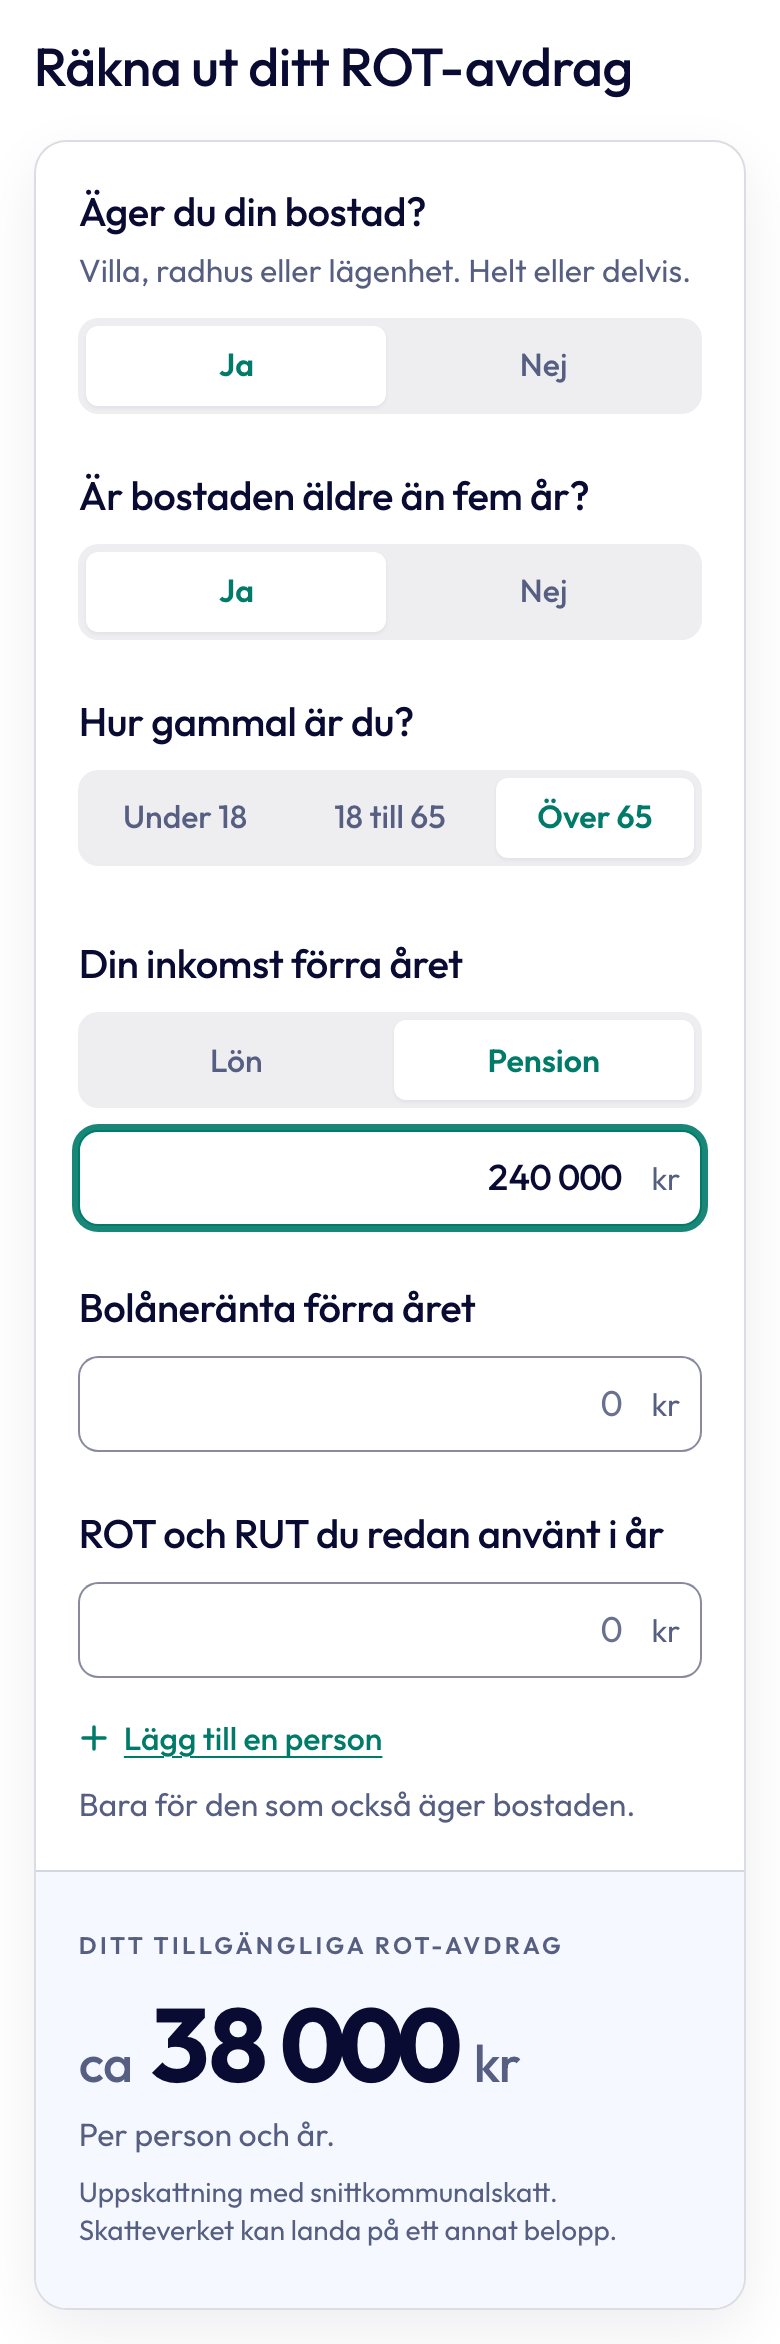
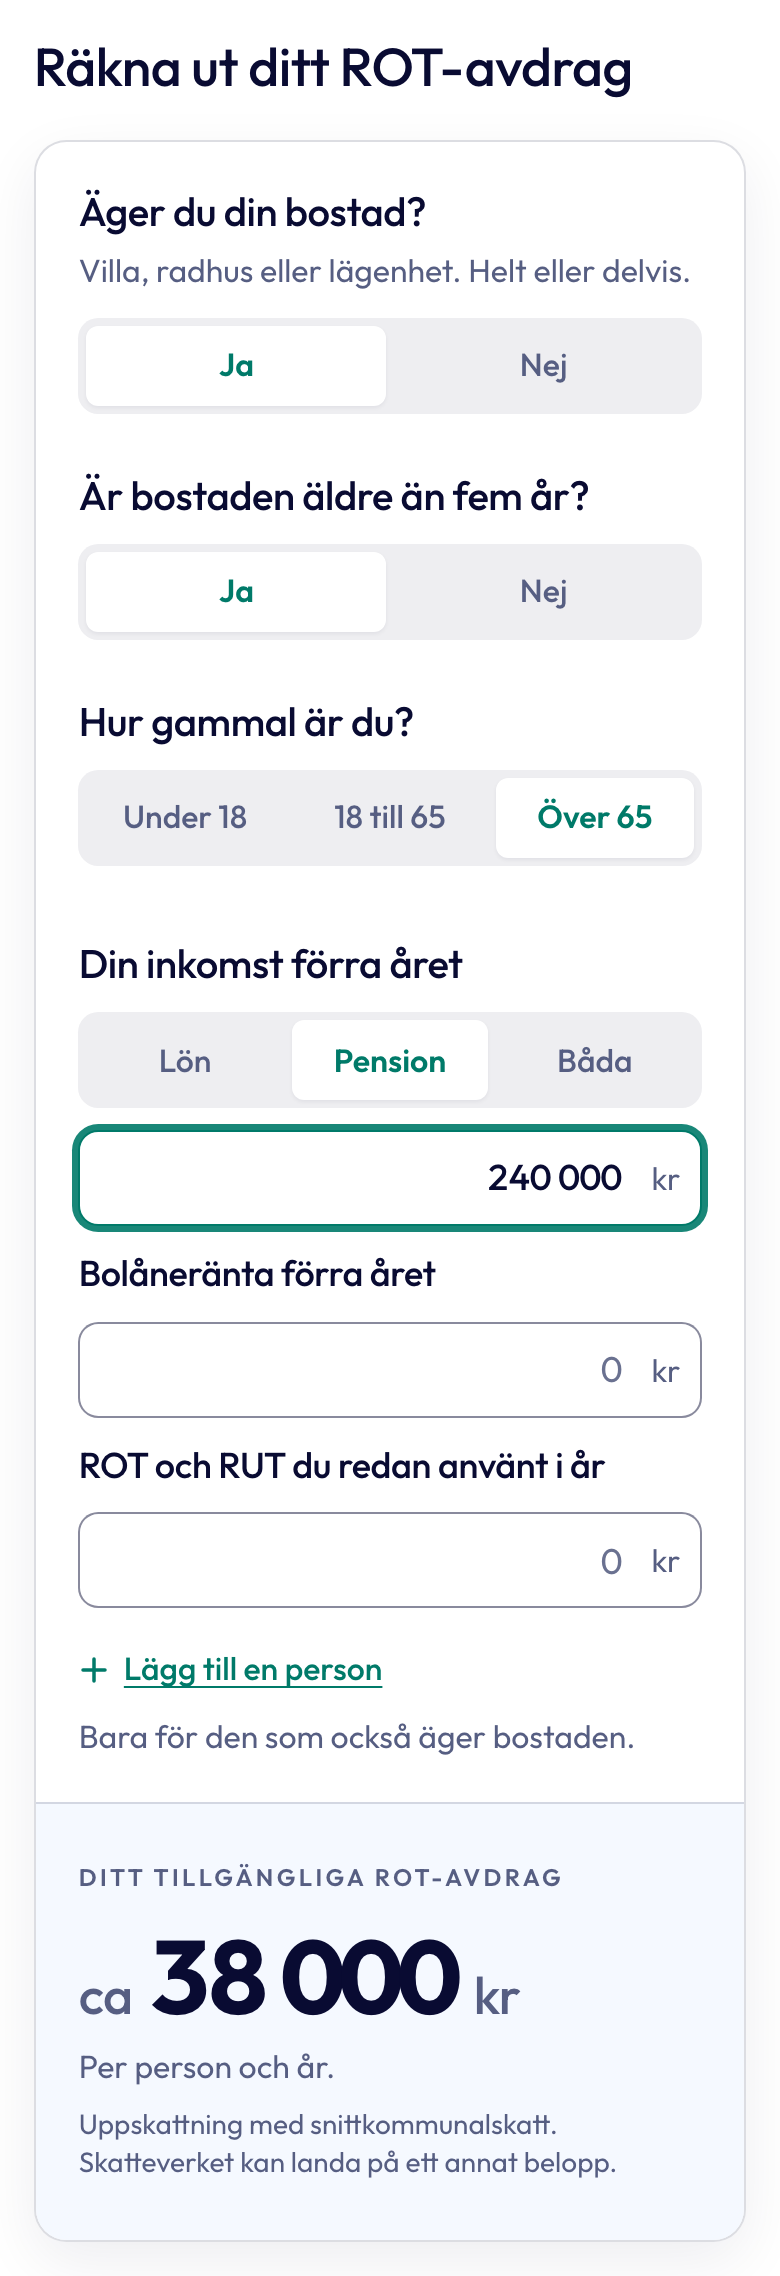
Posterna isär (ett använt-fält per läge), Lön/Pension/Båda med 'Varav pension', 66+-not, tätare detaljrader 18 px

diff --git a/kalkylator/rakna.js b/kalkylator/rakna.js
@@ -55,8 +55,8 @@ export const MAX_PERSONER = 4;
 /** Utrymmet för en person vid en given kommunalskatt (delad med ålder från frågan, inte från inkomsttypen: research/10 F1) */
 function utrymmeFor(p, ks) {
   const r = skatteutrymme({
-    lon_ar: p.typ === 'pension' ? 0 : p.inkomst,
-    pension_ar: p.typ === 'pension' ? p.inkomst : 0,
+    lon_ar: p.typ === 'pension' ? 0 : p.inkomst,                  /* 'lon' och 'bada': fältet är lön */
+    pension_ar: p.typ === 'pension' ? p.inkomst : (p.typ === 'bada' ? Math.max(0, p.pension || 0) : 0),
     ar_66_plus: p.alder === '66+',
     ks, taxeringsvarde: 0,
     ranteutgifter: Math.max(0, p.ranta || 0),        /* underskott av kapital ligger före ROT i 67 kap. 2 § (research/10 F2) */
@@ -68,9 +68,10 @@ function utrymmeFor(p, ks) {
  * beraknaHushall({ mode, ager, aldre, personer: [{ typ, inkomst, alder: 'u18'|'18-65'|'66+', ranta, anvant, gtAnvant }] })
  * -> { status: 'stopp'|'tak'|'belopp', belopp, prefix, text, not, per, antal }
  *   ager/aldre som i berakna(); person 1:s ålder 'u18' = fyller 18 först nästa år -> stopp (67 kap. 11 §).
- *   Per person (67 kap. 19 § tak + 67 kap. 2 § pott):
- *     ROT-läget:  rest = min(50 000, utrymme) − (ROT och RUT redan använt)      [RUT tar av samma pott; ett fält, konservativt när taket binder]
- *     GT-läget:   rest = min(50 000 − GT använt, utrymme − ROT/RUT använt − GT använt)   [ROT/RUT ligger före grön teknik i 67 kap. 2 §]
+ *   Per person (67 kap. 19 § tak + 67 kap. 2 § pott): rest = min(50 000, utrymme) − det som redan använts i år av
+ *   SAMMA post (ROT och RUT i ROT-läget, grön teknik i grön teknik-läget). Ägarbeslut 2026-09-16: posterna hålls isär
+ *   och syns inte i varandra; att ROT/RUT ligger före grön teknik i 67 kap. 2 § är därför en känd förenkling
+ *   (uppskattning, research/10 F3).
  *   Summan är hushållets. "upp till" så snart någon inkomst saknas, "ca" så snart någon är räknad under taket eller när
  *   "50 000" inte håller vid landets lägsta kommunalskatt (research/10 F6), annars exakt.
  */
@@ -86,15 +87,15 @@ export function beraknaHushall({ mode = 'rot', ager = true, aldre = true, myndig
   const noter = [];
   if (mode === 'rot' && !aldre) noter.push('Yngre än fem år: ROT gäller bara reparationer.');
 
-  let summa = 0, nagonTak = false, nagonCa = false, anvantTot = 0, forMycket = 0, nagonInkomst = false;
+  let summa = 0, nagonTak = false, nagonCa = false, anvantTot = 0, forMycket = 0, nagonInkomst = false, lon66 = false;
   for (const p of personer) {
-    const rotRut = Math.max(0, p.anvant || 0);
-    const gt = mode === 'gt' ? Math.max(0, p.gtAnvant || 0) : 0;
-    anvantTot += rotRut + gt;
-    const restVid = (u) => mode === 'gt' ? Math.min(TAK - gt, u - rotRut - gt) : Math.min(TAK, u) - rotRut;
+    const anvant = Math.max(0, (mode === 'gt' ? p.gtAnvant : p.anvant) || 0);
+    anvantTot += anvant;
+    const restVid = (u) => Math.min(TAK, u) - anvant;
     if (!p.inkomst) { summa += Math.max(0, restVid(Infinity)); nagonTak = true; continue; }
     nagonInkomst = true;
     const u = utrymmeFor(p, P.KS_SNITT);
+    if (u === 0 && p.alder === '66+' && p.typ === 'lon') lon66 = true;   /* 66+ med bara lön: förhöjt grundavdrag + jobbskatteavdrag 66+ äter hela kommunalskatten (verifierat: SKV-72) */
     let rest = restVid(u);
     if (rest < 0) forMycket += -rest;                 /* använt mer än skatten räcker till: kvarskatt */
     rest = Math.max(0, rest);
@@ -105,7 +106,9 @@ export function beraknaHushall({ mode = 'rot', ager = true, aldre = true, myndig
 
   const ni = antal > 1;
   if (summa === 0 && anvantTot > 0) noter.push(`${ni ? 'Ni' : 'Du'} har redan använt hela årets ${namn}.`);
-  else if (summa === 0 && nagonInkomst) noter.push(`${ni ? 'Er' : 'Din'} skatt räcker inte till något ${namn} i år.`);
+  else if (summa === 0 && nagonInkomst) noter.push(lon66
+    ? `Från 66 år är skatten på lön så låg att inget blir kvar att dra ${namn}et från. Har du också pension, välj Båda.`
+    : `${ni ? 'Er' : 'Din'} skatt räcker inte till något ${namn} i år.`);
   if (forMycket > 0) {
     const fm = Math.max(1000, Math.round(forMycket / 1000) * 1000);
     noter.push(`${ni ? 'Ni' : 'Du'} har ${summa === 0 && anvantTot > 0 ? 'dessutom ' : ''}använt ca ${kr(fm)} mer än skatten räcker till. Den delen kan Skatteverket kräva tillbaka i deklarationen.`);

diff --git a/kalkylator/artikel/index.html b/kalkylator/artikel/index.html
@@ -1681,6 +1681,7 @@ html.ampy-cc-locked,html.ampy-cc-locked body{overflow:hidden!important;}
               <div class="ampy-segment rk__segment" data-q="typ">
                 <label><input type="radio" name="typ-1" value="lon" checked><span>Lön</span></label>
                 <label><input type="radio" name="typ-1" value="pension"><span>Pension</span></label>
+                <label><input type="radio" name="typ-1" value="bada"><span>Båda</span></label>
               </div>
               <div class="rk__belopp">
                 <input class="ampy-input ampy-input--tabular rk__input" id="rk-inkomst-1" data-falt="inkomst" type="text" inputmode="numeric" autocomplete="off" enterkeyhint="done" placeholder="300 000" aria-labelledby="rk-inkomst-etikett-1" aria-describedby="rk-enhet-1">
@@ -1688,6 +1689,14 @@ html.ampy-cc-locked,html.ampy-cc-locked body{overflow:hidden!important;}
               </div>
             </div>
           </fieldset>
+          <!-- "Båda": lön i fältet ovanför, pensionen här (beskattas olika: pensionsavgift och jobbskatteavdrag bara på lön) -->
+          <div class="rk__fraga rk__rad rk__fraga--pension">
+            <label class="rk__etikett" for="rk-pension-1">Varav pension</label>
+            <div class="rk__belopp rk__belopp--kort">
+              <input class="ampy-input ampy-input--tabular rk__input" id="rk-pension-1" data-falt="pension" type="text" inputmode="numeric" autocomplete="off" enterkeyhint="done" placeholder="0" aria-describedby="rk-enhet-pension-1">
+              <span class="rk__enhet" id="rk-enhet-pension-1" aria-label="kronor">kr</span>
+            </div>
+          </div>
           <div class="rk__fraga rk__rad rk__fraga--ranta">
             <label class="rk__etikett" for="rk-ranta-1">Bolåneränta förra året</label>
             <div class="rk__belopp rk__belopp--kort">
@@ -1732,6 +1741,7 @@ html.ampy-cc-locked,html.ampy-cc-locked body{overflow:hidden!important;}
               <div class="ampy-segment rk__segment" data-q="typ">
                 <label><input type="radio" name="typ-N" value="lon" checked><span>Lön</span></label>
                 <label><input type="radio" name="typ-N" value="pension"><span>Pension</span></label>
+                <label><input type="radio" name="typ-N" value="bada"><span>Båda</span></label>
               </div>
               <div class="rk__belopp">
                 <input class="ampy-input ampy-input--tabular rk__input" id="rk-inkomst-N" data-falt="inkomst" type="text" inputmode="numeric" autocomplete="off" enterkeyhint="done" placeholder="300 000" aria-labelledby="rk-inkomst-etikett-N" aria-describedby="rk-enhet-N">
@@ -1739,6 +1749,14 @@ html.ampy-cc-locked,html.ampy-cc-locked body{overflow:hidden!important;}
               </div>
             </div>
           </fieldset>
+          <!-- "Båda": lön i fältet ovanför, pensionen här (beskattas olika: pensionsavgift och jobbskatteavdrag bara på lön) -->
+          <div class="rk__fraga rk__rad rk__fraga--pension">
+            <label class="rk__etikett" for="rk-pension-N">Varav pension</label>
+            <div class="rk__belopp rk__belopp--kort">
+              <input class="ampy-input ampy-input--tabular rk__input" id="rk-pension-N" data-falt="pension" type="text" inputmode="numeric" autocomplete="off" enterkeyhint="done" placeholder="0" aria-describedby="rk-enhet-pension-N">
+              <span class="rk__enhet" id="rk-enhet-pension-N" aria-label="kronor">kr</span>
+            </div>
+          </div>
           <!-- div + radiogroup i stället för fieldset: fieldset kan inte vara flex-rad i Chrome (legend hamnar utanför) -->
           <div class="rk__fraga rk__rad rk__fraga--alder" role="radiogroup" aria-labelledby="rk-alder-etikett-N">
             <span class="rk__etikett" id="rk-alder-etikett-N">Ålder</span>

diff --git a/kalkylator/v1/index.html b/kalkylator/v1/index.html
@@ -58,6 +58,7 @@
               <div class="ampy-segment rk__segment" data-q="typ">
                 <label><input type="radio" name="typ-1" value="lon" checked><span>Lön</span></label>
                 <label><input type="radio" name="typ-1" value="pension"><span>Pension</span></label>
+                <label><input type="radio" name="typ-1" value="bada"><span>Båda</span></label>
               </div>
               <div class="rk__belopp">
                 <input class="ampy-input ampy-input--tabular rk__input" id="rk-inkomst-1" data-falt="inkomst" type="text" inputmode="numeric" autocomplete="off" enterkeyhint="done" placeholder="300 000" aria-labelledby="rk-inkomst-etikett-1" aria-describedby="rk-enhet-1">
@@ -65,6 +66,14 @@
               </div>
             </div>
           </fieldset>
+          <!-- "Båda": lön i fältet ovanför, pensionen här (beskattas olika: pensionsavgift och jobbskatteavdrag bara på lön) -->
+          <div class="rk__fraga rk__rad rk__fraga--pension">
+            <label class="rk__etikett" for="rk-pension-1">Varav pension</label>
+            <div class="rk__belopp rk__belopp--kort">
+              <input class="ampy-input ampy-input--tabular rk__input" id="rk-pension-1" data-falt="pension" type="text" inputmode="numeric" autocomplete="off" enterkeyhint="done" placeholder="0" aria-describedby="rk-enhet-pension-1">
+              <span class="rk__enhet" id="rk-enhet-pension-1" aria-label="kronor">kr</span>
+            </div>
+          </div>
           <div class="rk__fraga rk__rad rk__fraga--ranta">
             <label class="rk__etikett" for="rk-ranta-1">Bolåneränta förra året</label>
             <div class="rk__belopp rk__belopp--kort">
@@ -109,6 +118,7 @@
               <div class="ampy-segment rk__segment" data-q="typ">
                 <label><input type="radio" name="typ-N" value="lon" checked><span>Lön</span></label>
                 <label><input type="radio" name="typ-N" value="pension"><span>Pension</span></label>
+                <label><input type="radio" name="typ-N" value="bada"><span>Båda</span></label>
               </div>
               <div class="rk__belopp">
                 <input class="ampy-input ampy-input--tabular rk__input" id="rk-inkomst-N" data-falt="inkomst" type="text" inputmode="numeric" autocomplete="off" enterkeyhint="done" placeholder="300 000" aria-labelledby="rk-inkomst-etikett-N" aria-describedby="rk-enhet-N">
@@ -116,6 +126,14 @@
               </div>
             </div>
           </fieldset>
+          <!-- "Båda": lön i fältet ovanför, pensionen här (beskattas olika: pensionsavgift och jobbskatteavdrag bara på lön) -->
+          <div class="rk__fraga rk__rad rk__fraga--pension">
+            <label class="rk__etikett" for="rk-pension-N">Varav pension</label>
+            <div class="rk__belopp rk__belopp--kort">
+              <input class="ampy-input ampy-input--tabular rk__input" id="rk-pension-N" data-falt="pension" type="text" inputmode="numeric" autocomplete="off" enterkeyhint="done" placeholder="0" aria-describedby="rk-enhet-pension-N">
+              <span class="rk__enhet" id="rk-enhet-pension-N" aria-label="kronor">kr</span>
+            </div>
+          </div>
           <!-- div + radiogroup i stället för fieldset: fieldset kan inte vara flex-rad i Chrome (legend hamnar utanför) -->
           <div class="rk__fraga rk__rad rk__fraga--alder" role="radiogroup" aria-labelledby="rk-alder-etikett-N">
             <span class="rk__etikett" id="rk-alder-etikett-N">Ålder</span>

diff --git a/kalkylator/v1/style.css b/kalkylator/v1/style.css
@@ -25,6 +25,7 @@
   --rk-text-stopp: 18px;                   /* stoppbeskedet 18/500 på båda skärmar (briefen) */
   --rk-text-siffror: 18px;                 /* siffrorna i beloppsfältet */
   --rk-text-fin: 14px;                     /* disclaimern under talet (research/10 §4.4): en rad, dämpad */
+  --rk-text-rad: 18px;                     /* etiketter på detaljraderna (ränta, använt, ålder, pension) */
   --rk-seg-min: 88px;                      /* minsta bredd per alternativ (briefen); "Pension" i 600 + padding är 84,3 så spåret byter inte bredd när vikten byter */
   /* Talblockets höjd: talraden + luft + "Per person och år." (56 + 9,9 + 22,4 = 88,3 / 44 + 8,3 + 22,4 = 74,7).
      Stoppblocket får samma höjd så etiketten och panelen står stilla när talet byts mot X + besked. */
@@ -76,10 +77,13 @@
    ovanför fullbreddskontroll). Fältet 140 px rymmer "50 000" med marginal och raden håller i artikelspaltens 377 px
    (etikett 216 + gap 14 + 140; en wrap-behållare krymper inte, den bryter). */
 .rk__rad { display: flex; flex-wrap: wrap; align-items: center; justify-content: space-between; gap: var(--rk-gap-ctl) var(--ampy-space-xs); }
-.rk__rad > .rk__etikett { flex: 0 1 auto; }
+.rk__rad > .rk__etikett { flex: 0 1 auto; font-size: var(--rk-text-rad); }   /* detaljrader ett steg under frågorna: 18 mot 20 */
+.rk__person > .rk__rad { margin-top: var(--ampy-space-s); }               /* detaljraderna hänger ihop med inkomsten: 19,8 mellan raderna, 28 mellan frågorna */
 .rk__rad > .rk__belopp { flex: 0 0 14rem; margin-top: 0; }
 .rk__rad > .rk__segment { margin-top: 0; }
-.rk[data-mode="rot"] .rk__fraga--gtanvant { display: none; }           /* grön teknik-fältet bara i grön teknik-läget; ROT/RUT-fältet i båda (ligger före i 67 kap. 2 §) */
+.rk[data-mode="rot"] .rk__fraga--gtanvant { display: none; }           /* ett använt-fält per läge: posterna hålls isär (ägarbeslut 2026-09-16) */
+.rk[data-mode="gt"] .rk__fraga--anvant { display: none; }
+.rk__person:not([data-typ="bada"]) .rk__fraga--pension { display: none; }   /* pensionsraden bara när "Båda" är valt */
 .rk__segment--tre { grid-auto-columns: 1fr; }                            /* tre lika breda val: Under 18 / 18 till 65 / Över 65 */
 .rk__under--lagg { margin-top: 0; }                                      /* raden under "Lägg till en person": bara ägare får avdraget */
 

diff --git a/kalkylator/v1/app.js b/kalkylator/v1/app.js
@@ -95,10 +95,13 @@ function lasPersoner() {
   return block().map((b) => {
     const n = b.querySelector('input[name^="typ-"]').name.split('-')[1];
     const falt = (namn) => siffra((b.querySelector(`[data-falt="${namn}"]`) || {}).value);
+    const typ = val(`typ-${n}`, b);
+    if (b.dataset.typ !== typ) b.dataset.typ = typ;      /* styr pensionsraden ("Båda") i CSS */
     return {
-      typ: val(`typ-${n}`, b),
+      typ,
       alder: val(`alder-${n}`) || '18-65',
       inkomst: falt('inkomst'),
+      pension: falt('pension'),
       ranta: falt('ranta'),
       anvant: falt('anvant'),
       gtAnvant: falt('gtanvant'),

diff --git a/kalkylator/v1/NOTES.md b/kalkylator/v1/NOTES.md
@@ -263,3 +263,17 @@ hittade sju saker som gjorde kalkylatorn för generös. Alla rättade:
 Kvar som kända förenklingar (alla åt det snälla hållet eller under 2 000 kr): kommunen (snitt 32,38 %, täcks av
 "ca" och disclaimern), fastighetsavgiften (0, ger bara mer utrymme), kapitalinkomster, a-kassa/sjukpenning i stället
 för lön, regional reduktion, pensionärers 4 %-spärr (bara med villa). Kortmått: desktop 781 (gt 742), mobil 1 085.
+
+## Ägarbeslut 2026-09-16 (efter researchrundan)
+
+- "ROT/RUT och grön teknik är två separata poster, ska ej synas i varandra": ett använt-fält per läge. ROT-läget
+  frågar "ROT och RUT du redan använt i år", grön teknik-läget bara "Grön teknik du redan använt i år". Att ROT/RUT
+  ligger före grön teknik i 67 kap. 2 § är därmed en känd förenkling (ägaren: "en uppskattning").
+- "Över 65 + Lön känns fel": det är Skatteverkets egen siffra (SKV-72: född 1955, lön 348 000, Stockholm: utrymme
+  0 kr; SKV-61: lön 400 000: 6 477 kr). Förhöjt grundavdrag + jobbskatteavdrag 66+ äter hela kommunalskatten. Men
+  de flesta som jobbar efter 66 har också pension, och pension beskattas annorlunda. Därför: inkomsttypen har nu tre
+  lägen, Lön / Pension / Båda; "Båda" visar raden "Varav pension". Noten vid 0 kr för 66+ med bara lön: "Från 66 år
+  är skatten på lön så låg att inget blir kvar att dra ROT-avdraget från. Har du också pension, välj Båda."
+  Kontroll: 200 000 lön + 200 000 pension (66+) ger ca 33 000 (Skatteverket Stockholm: 28 132 vid 30,55 %).
+- Design/spacing: detaljraderna (ränta, använt, ålder, pension) 18 px etikett och 19,8 px mellan raderna, frågorna
+  20 px och 28 px; fältet i höger kant i linje med inkomstfältet. Kort 781 desktop (gt 666), mobil 1 085 (gt 990).
